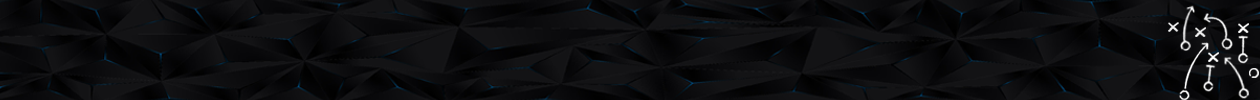
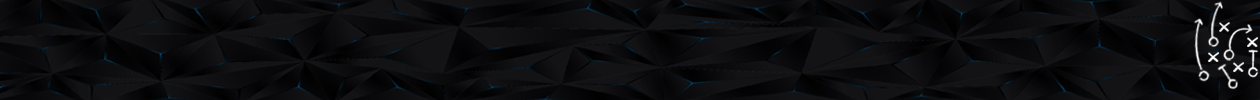
Update Captions BG Image

Changed region(s): [[0.9286, 0.03, 1.0, 1.0]]

diff --git a/public/styles/KKL-Dark.css b/public/styles/KKL-Dark.css
@@ -4806,8 +4806,8 @@ Team Logos
   padding-left: .188rem;
   padding-right: 0.188rem;
   padding-right: .188rem;
-  background: rgba(0, 0, 0, 0) url(https://knuckleheads.netlify.app/images/captions/KDL-Roster-Pixel.png); /*added*/
-  background-position: center; /*added*/
+  background: rgba(0, 0, 0, 0) url(https://knuckleheads.netlify.app/images/captions/Caption-Dark-Plays.png); /*added*/
+  background-position: center right; /*added*/
 }
 /*below settings to decrease size of icons for standings on mobile devices*/
 @media only screen and (max-width: 35.5em) {

diff --git a/public/styles/MMH-Dark.css b/public/styles/MMH-Dark.css
@@ -4797,7 +4797,7 @@ Team Logos
   padding-left: .188rem;
   padding-right: 0.188rem;
   padding-right: .188rem;
-  background: rgba(0, 0, 0, 0) url(https://knuckleheads.netlify.app/images/captions/KDL-Roster-Pixel.png); /*added*/
+  background: rgba(0, 0, 0, 0) url(https://knuckleheads.netlify.app/images/captions/Caption-Dark-Plays.png); /*added*/
   background-position: center; /*added*/
 }
 /*below settings to decrease size of icons for standings on mobile devices*/
